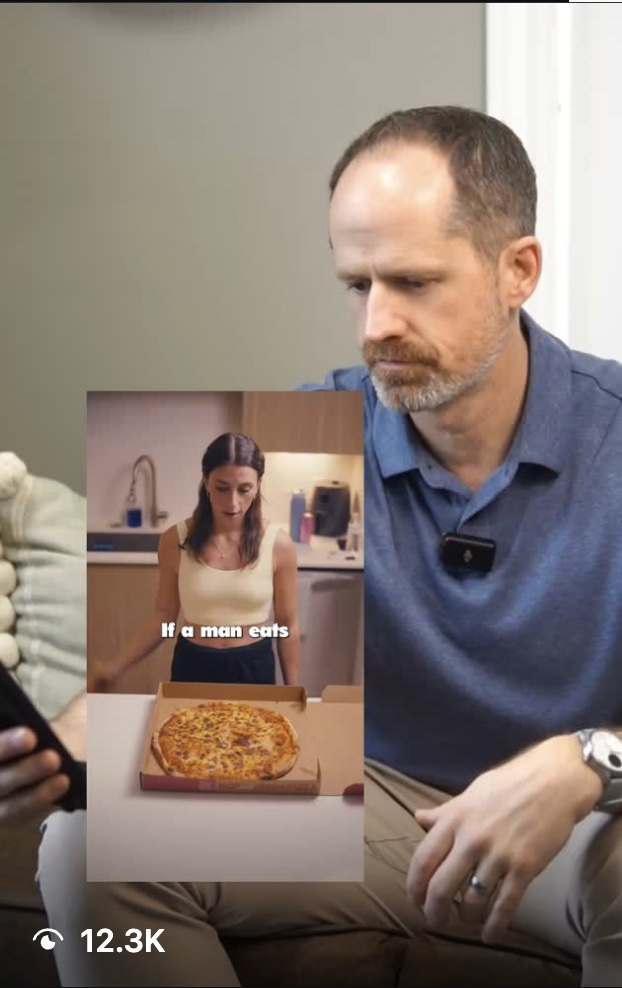
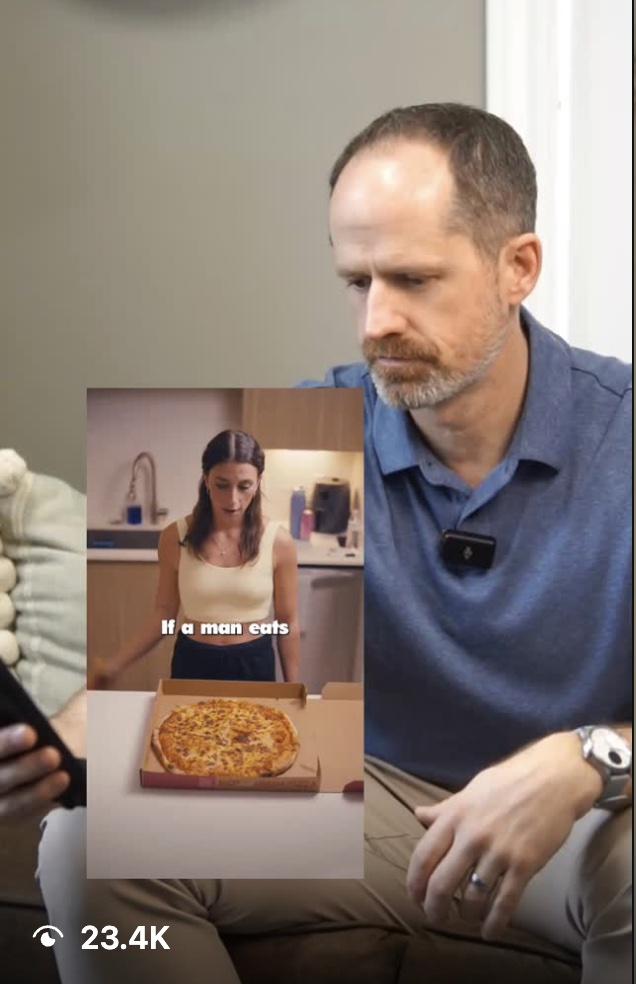
fix(doctors): center Spencer + Saratoga sections; use the real 23.4K screenshot
- Center both section heads, the Spencer after-cluster, the Saratoga reels grid,
  and the Saratoga byline.
- Swap spencer-after.jpg to the actual 23.4K screenshot (the earlier sips replace
  silently missed it — the filename has a non-breaking space, so the literal-path
  copy never matched and the old 12.3K image stayed).

diff --git a/src/pages/LandingPageDoctors.tsx b/src/pages/LandingPageDoctors.tsx
@@ -152,7 +152,7 @@ export default function LandingPageDoctors() {
       {/* ===== SPENCER — before / after ===== */}
       <section className="dc-section dc-section-tint">
         <div className="dc-wrap">
-          <div className="dc-head">
+          <div className="dc-head center">
             <span className="dc-eyebrow">Another result</span>
             <h2 className="dc-h2">Two years of little traction. Then <span className="dc-teal-tx">23.4K in four posts.</span></h2>
             <p className="dc-head-p">Spencer Barton, NP at Pecan Health, helps people reach their ideal body weight and optimal health. He'd been posting for a couple of years with little to show for it.</p>
@@ -189,7 +189,7 @@ export default function LandingPageDoctors() {
       {/* ===== SARATOGA — viral reels ===== */}
       <section className="dc-section">
         <div className="dc-wrap">
-          <div className="dc-head">
+          <div className="dc-head center">
             <span className="dc-eyebrow">And another</span>
             <h2 className="dc-h2">Saratoga Chiropractic: <span className="dc-teal-tx">57.8K and 15K</span> on two posts.</h2>
             <p className="dc-head-p">The two chiropractors behind Saratoga Chiropractic turned everyday adjustments into scroll-stopping content. Even the "aren't you embarrassed to be posting?" video pulled 15K.</p>
@@ -204,11 +204,13 @@ export default function LandingPageDoctors() {
               <figcaption>15K views</figcaption>
             </figure>
           </div>
-          <div className="dc-ba-by" style={{ marginTop: 24 }}>
-            <img className="dc-avatar-rect" src={saratogaTeam} alt="Saratoga Chiropractic" />
-            <div>
-              <div className="dc-by-name">Saratoga Chiropractic</div>
-              <div className="dc-by-role">Dr. Davis &amp; partner · Chiropractors</div>
+          <div style={{ textAlign: "center", marginTop: 24 }}>
+            <div className="dc-ba-by">
+              <img className="dc-avatar-rect" src={saratogaTeam} alt="Saratoga Chiropractic" />
+              <div>
+                <div className="dc-by-name">Saratoga Chiropractic</div>
+                <div className="dc-by-role">Dr. Davis &amp; partner · Chiropractors</div>
+              </div>
             </div>
           </div>
         </div>
@@ -529,7 +531,8 @@ const CSS = `
 .dc .dc-ba-tag.teal { color: var(--teal); }
 .dc .dc-ba-meta { font-size: 13.5px; font-weight: 700; color: var(--ink); }
 .dc .dc-ba-img { width: 100%; height: auto; border-radius: 12px; display: block; }
-.dc .dc-ba-after { display: grid; grid-template-columns: auto 1fr; gap: 30px; align-items: center; }
+.dc .dc-ba-after { display: flex; flex-wrap: wrap; gap: 30px; align-items: center; justify-content: center; }
+.dc .dc-ba-after > div { max-width: 360px; }
 .dc .dc-ba-shot { height: 340px; width: auto; border-radius: 16px; display: block; border: 1px solid var(--line); }
 .dc .dc-ba-big { font-family: 'Bricolage Grotesque', sans-serif; font-weight: 800; font-size: clamp(48px, 7vw, 76px); line-height: 1; letter-spacing: -0.03em; color: var(--teal); margin-top: 10px; }
 .dc .dc-ba-sub { font-size: 16px; color: var(--ink-2); line-height: 1.55; margin-top: 12px; max-width: 360px; }
@@ -537,7 +540,7 @@ const CSS = `
 .dc .dc-avatar-rect { width: 76px; height: 50px; border-radius: 10px; object-fit: cover; object-position: center 28%; flex-shrink: 0; }
 
 /* saratoga viral reels */
-.dc .dc-reels { display: grid; grid-template-columns: repeat(2, 1fr); gap: 18px; max-width: 660px; }
+.dc .dc-reels { display: grid; grid-template-columns: repeat(2, 1fr); gap: 18px; max-width: 660px; margin: 0 auto; }
 .dc .dc-reel { margin: 0; background: var(--surface); border: 1px solid var(--line); border-radius: 18px; padding: 12px; }
 .dc .dc-reel img { width: 100%; height: 360px; object-fit: contain; background: var(--bg); border-radius: 10px; display: block; }
 .dc .dc-reel figcaption { margin-top: 10px; font-family: 'Bricolage Grotesque', sans-serif; font-weight: 700; font-size: 17px; color: var(--teal); text-align: center; }
@@ -609,7 +612,7 @@ const CSS = `
 @media (max-width: 920px) {
   .dc .dc-nav-links { display: none; }
   .dc .dc-case { grid-template-columns: 1fr; }
-  .dc .dc-ba-after { grid-template-columns: 1fr; justify-items: center; text-align: center; }
+  .dc .dc-ba-after { flex-direction: column; text-align: center; }
   .dc .dc-case-media { min-height: 280px; }
   .dc .dc-outcomes { grid-template-columns: 1fr; }
   .dc .dc-about { grid-template-columns: 1fr; }
